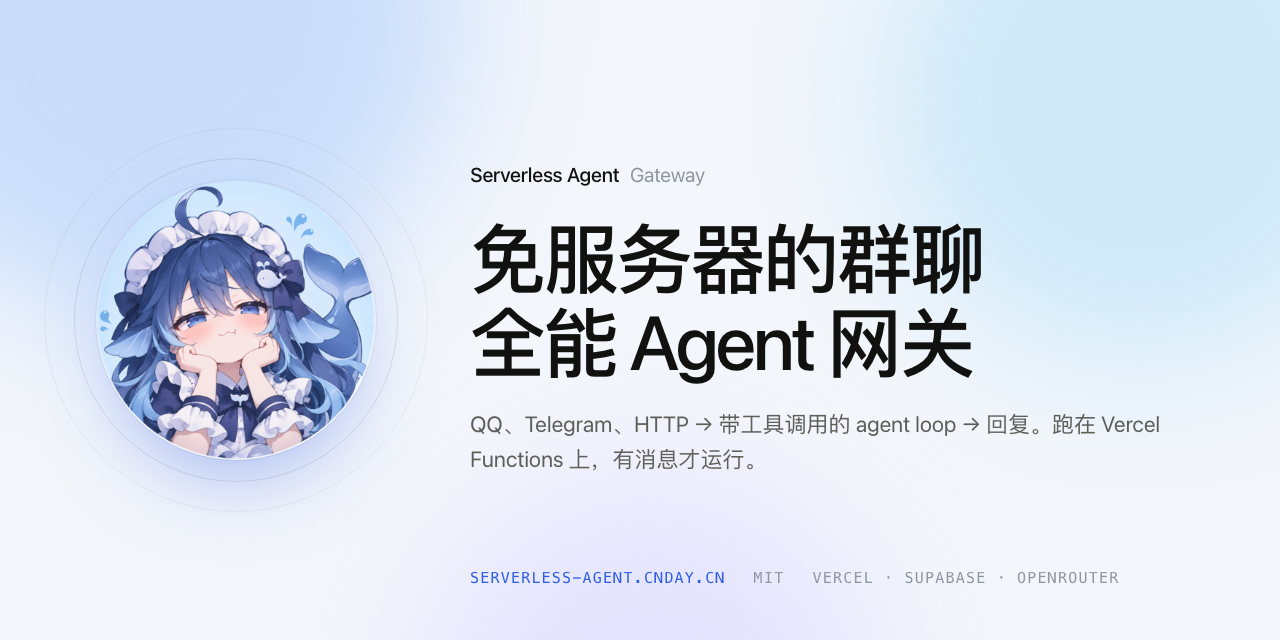
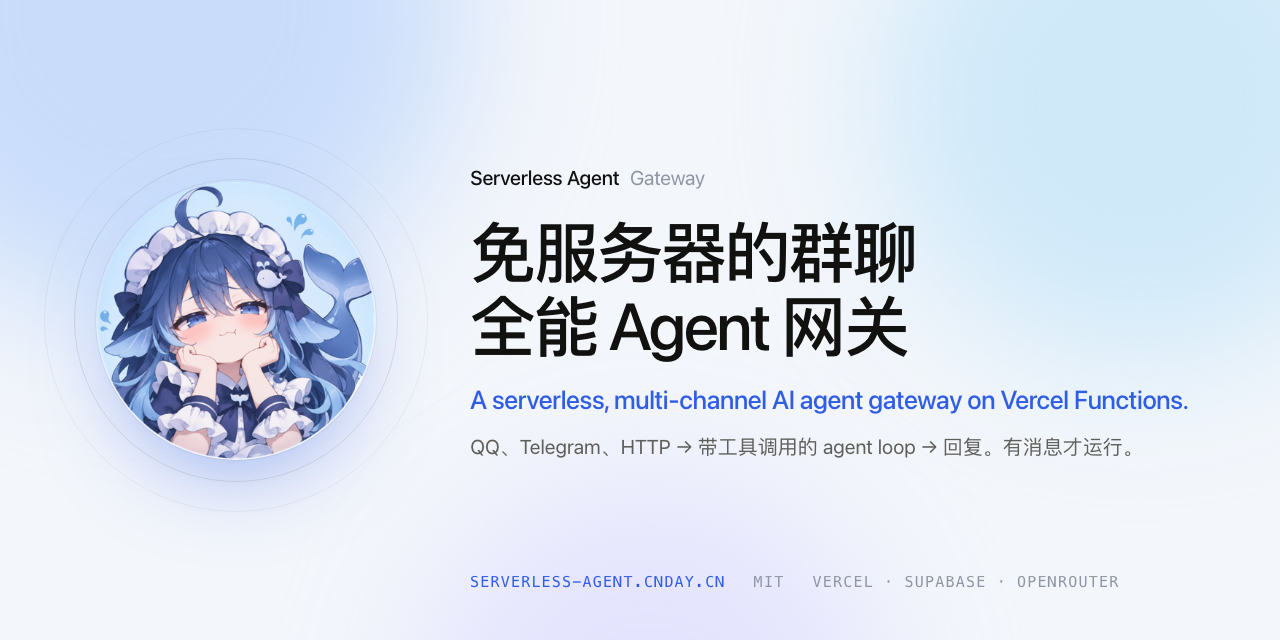
Site: bilingual social preview image

diff --git a/site/og.html b/site/og.html
@@ -19,12 +19,13 @@
   .orb img { width: 100%; height: 100%; border-radius: 50%; display: block; box-shadow: 0 40px 90px -36px rgba(47,93,230,.55), 0 0 0 1px rgba(17,17,16,.06); }
   .orb i { position: absolute; border-radius: 50%; border: 1px solid rgba(17,17,16,.1); inset: -22px; }
   .orb i.r2 { inset: -52px; border-color: rgba(17,17,16,.05); }
-  .copy { position: absolute; left: 470px; top: 50%; transform: translateY(-50%); }
-  .brand { font-size: 20px; font-weight: 500; letter-spacing: -.01em; margin-bottom: 30px; }
+  .copy { position: absolute; left: 470px; top: 50%; transform: translateY(-52%); }
+  .brand { font-size: 20px; font-weight: 500; letter-spacing: -.01em; margin-bottom: 26px; }
   .brand em { font-style: normal; color: #8f96a3; font-weight: 400; margin-left: .3em; }
-  h1 { margin: 0 0 24px; font-size: 76px; font-weight: 500; letter-spacing: -.035em; line-height: 1.1; }
-  p { margin: 0; font-size: 22px; color: #5f5f5a; line-height: 1.6; max-width: 700px; }
-  .foot { position: absolute; left: 470px; bottom: 54px; display: flex; gap: 28px; font: 500 15px/1 ui-monospace, "SF Mono", Menlo, monospace; letter-spacing: .08em; color: #8f96a3; text-transform: uppercase; }
+  h1 { margin: 0 0 20px; font-size: 66px; font-weight: 500; letter-spacing: -.035em; line-height: 1.12; }
+  .en { margin: 0 0 14px; font-size: 26px; font-weight: 500; letter-spacing: -.02em; color: #2f5de6; line-height: 1.3; }
+  .zh { margin: 0; font-size: 20px; color: #5f5f5a; line-height: 1.6; max-width: 760px; }
+  .foot { position: absolute; left: 470px; bottom: 50px; display: flex; gap: 28px; font: 500 15px/1 ui-monospace, "SF Mono", Menlo, monospace; letter-spacing: .08em; color: #8f96a3; text-transform: uppercase; }
   .foot b { color: #2f5de6; font-weight: 500; }
 </style>
 </head>
@@ -34,7 +35,8 @@
   <div class="copy">
     <div class="brand">Serverless Agent <em>Gateway</em></div>
     <h1>免服务器的群聊<br>全能 Agent 网关</h1>
-    <p>QQ、Telegram、HTTP → 带工具调用的 agent loop → 回复。跑在 Vercel Functions 上，有消息才运行。</p>
+    <p class="en">A serverless, multi-channel AI agent gateway on Vercel Functions.</p>
+    <p class="zh">QQ、Telegram、HTTP → 带工具调用的 agent loop → 回复。有消息才运行。</p>
   </div>
   <div class="foot"><b>serverless-agent.cnday.cn</b><span>MIT</span><span>Vercel · Supabase · OpenRouter</span></div>
 </body>
